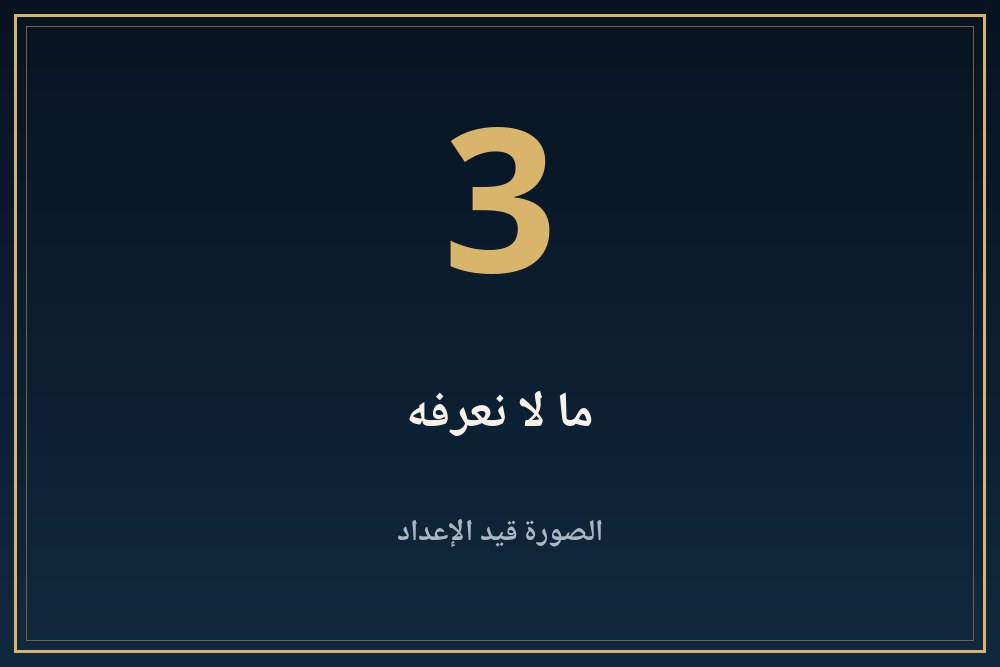
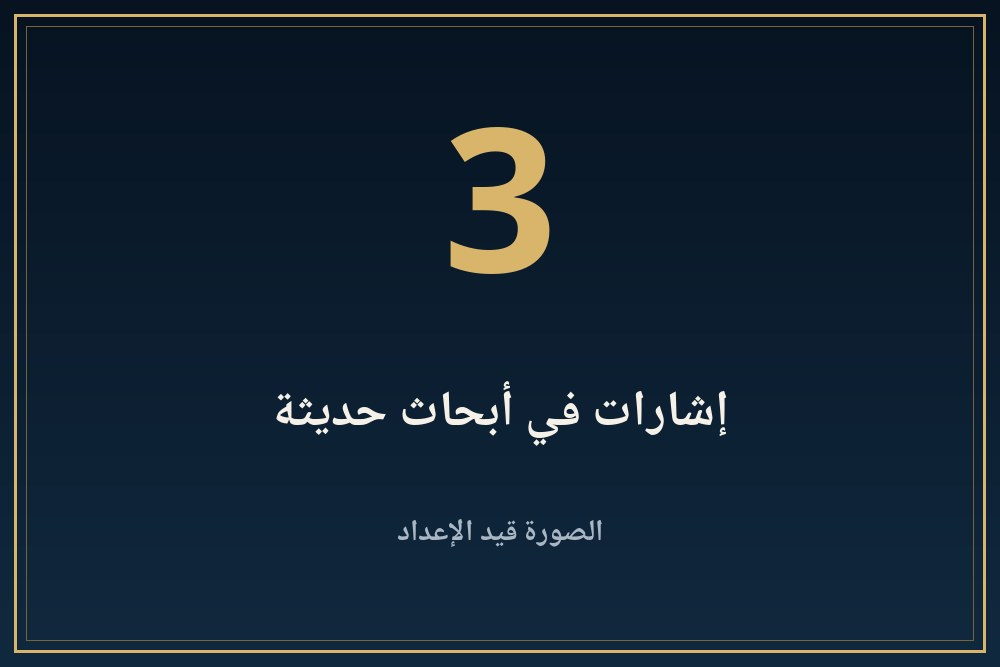
King card 111 folder 70: updated JSON

Changed region(s): [[0.279, 0.5697, 0.744, 0.6597]]

diff --git a/kings/070-syty-alawl/index.html b/kings/070-syty-alawl/index.html
@@ -324,7 +324,7 @@ html[dir=ltr] #panav.open,#pash[dir=ltr] #panav.open{border-right:0!important;bo
 <div class="row"><span class="bdg v">موثّق</span><span>مذكور في مصدر مرقّم يمكن فتحه من قسم المراجع.</span></div>
 <div class="row"><span class="bdg d">محل خلاف</span><span>الصفحة نفسها تذكر أن الباحثين أو المصادر مختلفون فيه.</span></div>
 <div class="row"><span class="bdg u">لم يُتحقق منه</span><span>الصفحة تذكر أنه من مصدر واحد ولم يُتحقق منه في مصدر ثانٍ.</span></div></div>
-<div class="band" aria-hidden="true"></div><details class="acc k1" id="s1"><summary><img class="bnr" src="banners/b01.jpg?v=1" alt="" width="1000" height="667"><span class="n">1</span><span class="t">من هو؟</span><span class="ch"></span></summary><div class="body"><button class="lbtn" type="button" disabled aria-disabled="true" style="opacity:.55;cursor:default"><svg viewBox="0 0 24 24" fill="currentColor" aria-hidden="true"><path d="M7 4.5v15a1 1 0 001.5.86l12-7.5a1 1 0 000-1.72l-12-7.5A1 1 0 007 4.5z"/></svg><span>التعليق الصوتي قريبًا</span></button><p><span class="bdg v">موثّق</span> يقول صالح (ص343) إن رعمسيس الأول استعان بولده «سيتي» وعهد إليه بالوزارة والقيادة ورئاسة الشرطة والرئاسة التقليدية للكهنة.<sup><a href="#r1">[1]</a></sup></p></div></details><details class="acc k2" id="s2"><summary><img class="bnr" src="banners/b02.jpg?v=1" alt="" loading="lazy" width="1000" height="667"><span class="n">2</span><span class="t">المؤسس الحقيقي؟</span><span class="ch"></span></summary><div class="body"><button class="lbtn" type="button" disabled aria-disabled="true" style="opacity:.55;cursor:default"><svg viewBox="0 0 24 24" fill="currentColor" aria-hidden="true"><path d="M7 4.5v15a1 1 0 001.5.86l12-7.5a1 1 0 000-1.72l-12-7.5A1 1 0 007 4.5z"/></svg><span>التعليق الصوتي قريبًا</span></button><p><span class="bdg d">محل خلاف</span> يقول صالح (ص343) إن الابن «يعتبر المؤسس الحقيقي لملك أسرته». هذا حكم صالح، ولم نقرأ ما يقابله أو يخالفه في مقتطفاتنا.<sup><a href="#r1">[1]</a></sup></p></div></details><details class="acc k3" id="s3"><summary><img class="bnr" src="banners/b03.jpg?v=1" alt="" loading="lazy" width="1000" height="667"><span class="n">3</span><span class="t">ما لا نعرفه</span><span class="ch"></span></summary><div class="body"><button class="lbtn" type="button" disabled aria-disabled="true" style="opacity:.55;cursor:default"><svg viewBox="0 0 24 24" fill="currentColor" aria-hidden="true"><path d="M7 4.5v15a1 1 0 001.5.86l12-7.5a1 1 0 000-1.72l-12-7.5A1 1 0 007 4.5z"/></svg><span>التعليق الصوتي قريبًا</span></button><p><span class="bdg u">لم يُتحقق منه</span> لا نقرأ في مقتطفاتنا حملاته ولا مبانيه ولا مدة حكمه ولا قبره. فصل سليم عنه (ج6 ص31) لم يصلنا بعد.</p></div></details><details class="acc k4" id="refs"><summary><img class="bnr" src="banners/b04.jpg?v=1" alt="" loading="lazy" width="1000" height="667"><span class="n">4</span><span class="t">المراجع</span><span class="ch"></span></summary><div class="body"><button class="lbtn" type="button" disabled aria-disabled="true" style="opacity:.55;cursor:default"><svg viewBox="0 0 24 24" fill="currentColor" aria-hidden="true"><path d="M7 4.5v15a1 1 0 001.5.86l12-7.5a1 1 0 000-1.72l-12-7.5A1 1 0 007 4.5z"/></svg><span>التعليق الصوتي قريبًا</span></button><p><b>مصادر فتحتُ صفحاتها وقرأتها:</b></p><ol><li id="r1" dir="auto">عبد العزيز صالح، الشرق الأدنى القديم ج1 (مصر والعراق)، أرقام صفحات PDF: <a dir="ltr" style="display:inline-block;overflow-wrap:anywhere" href="https://archive.org/details/20210510_20210510_0037" rel="noopener" target="_blank">archive.org/details/20210510_20210510_0037</a></li></ol><div class="flag"><b>تنبيه:</b> عدد المصادر المصرية المفتوحة لهذه الصفحة واحد فقط. لا نضيف تفاصيل لم تثبت في مصدر فتحناه وقرأنا نصه، وحيث يختلف المصدران ننسب كل رأي لصاحبه.</div></div></details></article><aside class="abt" aria-label="عن هذه الصفحة"><h3>عن هذه الصفحة</h3><ul><li><b>المحتوى</b><span>جزء من موسوعة بر عنخ التعليمية. التواريخ والتفسيرات وفق المراجع المتاحة، وقد تختلف التفاصيل بين الدراسات.</span></li><li><b>الصور</b><span>صور هذه الصفحة أماكن حجز مؤقتة إلى أن تُضاف الصور الفنية.</span></li><li><b>الصوت</b><span>التعليق الصوتي قيد الإعداد.</span></li></ul></aside><a class="back" href="/kings/">← تصفح المزيد</a><a class="back" href="/">العودة إلى الرئيسية</a><dialog id="lb"><img alt=""><p></p><button type="button">إغلاق</button></dialog>
+<div class="band" aria-hidden="true"></div><details class="acc k1" id="s1"><summary><img class="bnr" src="banners/b01.jpg?v=1" alt="" width="1000" height="667"><span class="n">1</span><span class="t">من هو؟</span><span class="ch"></span></summary><div class="body"><button class="lbtn" type="button" disabled aria-disabled="true" style="opacity:.55;cursor:default"><svg viewBox="0 0 24 24" fill="currentColor" aria-hidden="true"><path d="M7 4.5v15a1 1 0 001.5.86l12-7.5a1 1 0 000-1.72l-12-7.5A1 1 0 007 4.5z"/></svg><span>التعليق الصوتي قريبًا</span></button><p><span class="bdg v">موثّق</span> يقول صالح (ص343) إن رعمسيس الأول استعان بولده «سيتي» وعهد إليه بالوزارة والقيادة ورئاسة الشرطة والرئاسة التقليدية للكهنة.<sup><a href="#r1">[1]</a></sup></p></div></details><details class="acc k2" id="s2"><summary><img class="bnr" src="banners/b02.jpg?v=1" alt="" loading="lazy" width="1000" height="667"><span class="n">2</span><span class="t">المؤسس الحقيقي؟</span><span class="ch"></span></summary><div class="body"><button class="lbtn" type="button" disabled aria-disabled="true" style="opacity:.55;cursor:default"><svg viewBox="0 0 24 24" fill="currentColor" aria-hidden="true"><path d="M7 4.5v15a1 1 0 001.5.86l12-7.5a1 1 0 000-1.72l-12-7.5A1 1 0 007 4.5z"/></svg><span>التعليق الصوتي قريبًا</span></button><p><span class="bdg d">محل خلاف</span> يقول صالح (ص343) إن الابن «يعتبر المؤسس الحقيقي لملك أسرته». هذا حكم صالح، ولم نقرأ ما يقابله أو يخالفه في مقتطفاتنا.<sup><a href="#r1">[1]</a></sup></p></div></details><details class="acc k3" id="s3"><summary><img class="bnr" src="banners/b03.jpg?v=1" alt="" loading="lazy" width="1000" height="667"><span class="n">3</span><span class="t">إشارات في أبحاث حديثة</span><span class="ch"></span></summary><div class="body"><button class="lbtn" type="button" disabled aria-disabled="true" style="opacity:.55;cursor:default"><svg viewBox="0 0 24 24" fill="currentColor" aria-hidden="true"><path d="M7 4.5v15a1 1 0 001.5.86l12-7.5a1 1 0 000-1.72l-12-7.5A1 1 0 007 4.5z"/></svg><span>التعليق الصوتي قريبًا</span></button><p><span class="bdg v">موثّق</span> يذكر باحثون في كتب Archaeopress ما يلي عن سيتي الأول، لكل منهم قوله. يقول Gregory (ص99) إن قوائم الملوك، مثل القائمة المنقوشة لسيتي الأول في أبيدوس، تشير إلى أن للنظر إلى الزمن بوصفه خطيا ما يبرره. ويقول (ص114) إن باخت تطلب الكمال المثالي لسيتي الأول في نص الإهداء الكبير في سبيوس أرتميدوس. وتقول Roussel (CRE 2022، ص301) إن مقصورتين في دير المدينة، هما مقصورة حتحور لسيتي الأول ومعبد آمون لرمسيس الثاني، تحملان رسوما جدارية تُظهر رجالا ونساء. وتقول Soliman (ص358) إن سيتي الأول (نحو 1291-1279 ق.م) خاض معركة كبرى ضد القبائل الليبية، وإن من المغري ربط ذلك بإنشاء الحصن. وتقول Derbyshire (CRE 2024، ص64) إن معابد جبل السلسلة كُرّست لسيتي الأول ورمسيس الثاني ومرنبتاح، مع مقصورة أصغر لرمسيس الثالث.<sup><a href="#r2">[2]</a><a href="#r3">[3]</a></sup></p></div></details><details class="acc k4" id="s4"><summary><img class="bnr" src="banners/b04.jpg?v=1" alt="" loading="lazy" width="1000" height="667"><span class="n">4</span><span class="t">ما لا نعرفه</span><span class="ch"></span></summary><div class="body"><button class="lbtn" type="button" disabled aria-disabled="true" style="opacity:.55;cursor:default"><svg viewBox="0 0 24 24" fill="currentColor" aria-hidden="true"><path d="M7 4.5v15a1 1 0 001.5.86l12-7.5a1 1 0 000-1.72l-12-7.5A1 1 0 007 4.5z"/></svg><span>التعليق الصوتي قريبًا</span></button><p><span class="bdg u">لم يُتحقق منه</span> لا نقرأ في مقتطفاتنا حملاته ولا مبانيه ولا مدة حكمه ولا قبره. فصل سليم عنه (ج6 ص31) لم يصلنا بعد.</p></div></details><details class="acc k4" id="refs"><summary><img class="bnr" src="banners/b05.jpg?v=1" alt="" loading="lazy" width="1000" height="667"><span class="n">5</span><span class="t">المراجع</span><span class="ch"></span></summary><div class="body"><button class="lbtn" type="button" disabled aria-disabled="true" style="opacity:.55;cursor:default"><svg viewBox="0 0 24 24" fill="currentColor" aria-hidden="true"><path d="M7 4.5v15a1 1 0 001.5.86l12-7.5a1 1 0 000-1.72l-12-7.5A1 1 0 007 4.5z"/></svg><span>التعليق الصوتي قريبًا</span></button><p><b>مصادر فتحتُ صفحاتها وقرأتها:</b></p><ol><li id="r1" dir="auto">عبد العزيز صالح، الشرق الأدنى القديم ج1 (مصر والعراق)، أرقام صفحات PDF: <a dir="ltr" style="display:inline-block;overflow-wrap:anywhere" href="https://archive.org/details/20210510_20210510_0037" rel="noopener" target="_blank">archive.org/details/20210510_20210510_0037</a></li><li id="r2" dir="auto">S.R.W. Gregory, Tutankhamun Knew the Names of the Two Great Gods (2022)، ترخيص CC BY-NC-ND 4.0، ص105-118 (ترقيم الكتاب المطبوع)</li><li id="r3" dir="auto">أبحاث في Current Research in Egyptology 2022 و2024 (Archaeopress): Sally Bahgat ص22؛ Louisa Ben Hamida ص41؛ Valentin Boyer ص53؛ Joanne Derbyshire (2024) ص64؛ Aliénor Roussel ص301؛ Marwa Soliman ص358 (ترقيم الكتاب المطبوع)</li></ol><div class="flag"><b>تنبيه:</b> عدد المصادر المصرية المفتوحة لهذه الصفحة واحد فقط. لا نضيف تفاصيل لم تثبت في مصدر فتحناه وقرأنا نصه، وحيث يختلف المصدران ننسب كل رأي لصاحبه.</div></div></details></article><aside class="abt" aria-label="عن هذه الصفحة"><h3>عن هذه الصفحة</h3><ul><li><b>المحتوى</b><span>جزء من موسوعة بر عنخ التعليمية. التواريخ والتفسيرات وفق المراجع المتاحة، وقد تختلف التفاصيل بين الدراسات.</span></li><li><b>الصور</b><span>صور هذه الصفحة أماكن حجز مؤقتة إلى أن تُضاف الصور الفنية.</span></li><li><b>الصوت</b><span>التعليق الصوتي قيد الإعداد.</span></li></ul></aside><a class="back" href="/kings/">← تصفح المزيد</a><a class="back" href="/">العودة إلى الرئيسية</a><dialog id="lb"><img alt=""><p></p><button type="button">إغلاق</button></dialog>
 <script>(function(){var A=function(){return document.querySelectorAll("details.acc")};
 document.getElementById("all").onclick=function(){A().forEach(function(d){d.open=true})};
 document.getElementById("none").onclick=function(){A().forEach(function(d){d.open=false})};
@@ -332,7 +332,7 @@ function go(h){var e=h&&document.getElementById(h.slice(1));if(!e)return;var d=e
 document.addEventListener("click",function(e){var a=e.target.closest&&e.target.closest('a[href^="#"]');if(a){go(a.getAttribute("href"))}});
 if(location.hash)go(location.hash);
 var d=document.getElementById("lb");if(!d||!d.showModal)return;var im=d.querySelector("img"),p=d.querySelector("p");document.addEventListener("click",function(e){var t=e.target;if(t.tagName=="IMG"&&t.closest(".fig")){im.src=t.src;im.alt=t.alt;p.textContent=t.closest("figure").querySelector("figcaption").innerText;d.showModal()}else if(t==d||t.tagName=="BUTTON"&&d.contains(t)){d.close()}})})();</script><div class="pbar" id="pbar"></div><div class="pl" id="pl" role="region" aria-label="مشغّل الاستماع"><div class="in"><button class="pp" id="pp" type="button" aria-label="تشغيل"><svg viewBox="0 0 24 24" fill="currentColor" aria-hidden="true"><path d="M7 4.5v15a1 1 0 001.5.86l12-7.5a1 1 0 000-1.72l-12-7.5A1 1 0 007 4.5z"/></svg></button><div class="mid"><div class="ttl"><span id="tt">استماع</span> <i>صوت اصطناعي</i></div><input id="sk" type="range" min="0" max="1000" value="0" aria-label="موضع التشغيل"><div class="tm"><span id="cur">0:00</span><span id="dur">0:00</span></div></div><div class="ex"><button id="bk" type="button" aria-label="رجوع 10 ثوانٍ">−10</button><button id="fw" type="button" aria-label="تقدم 10 ثوانٍ">+10</button><button id="sp" class="sp" type="button" aria-label="سرعة التشغيل">1×</button><button id="cl" type="button" aria-label="إغلاق المشغّل">✕</button></div><p class="err" id="er" role="alert" hidden>تعذر تحميل الملف الصوتي. حاول لاحقًا.</p></div><div aria-live="polite" id="st" style="position:absolute;left:-9999px"></div><audio id="au" preload="none"></audio></div></main><script>(function(){
-var S={"s1": ["من هو؟", 1], "s2": ["المؤسس الحقيقي؟", 1], "s3": ["ما لا نعرفه", 1], "refs": ["المراجع", 1]},$=function(i){return document.getElementById(i)},au=$("au"),pl=$("pl"),pp=$("pp"),sk=$("sk"),P="<svg viewBox=\"0 0 24 24\" fill=\"currentColor\" aria-hidden=\"true\"><path d=\"M7 4.5v15a1 1 0 001.5.86l12-7.5a1 1 0 000-1.72l-12-7.5A1 1 0 007 4.5z\"/></svg>",Q="<svg viewBox=\"0 0 24 24\" fill=\"currentColor\" aria-hidden=\"true\"><rect x=\"5.5\" y=\"4\" width=\"4.5\" height=\"16\" rx=\"1.2\"/><rect x=\"14\" y=\"4\" width=\"4.5\" height=\"16\" rx=\"1.2\"/></svg>",cur=null,part=1,seeking=false;
+var S={"s1": ["من هو؟", 1], "s2": ["المؤسس الحقيقي؟", 1], "s3": ["إشارات في أبحاث حديثة", 1], "s4": ["ما لا نعرفه", 1], "refs": ["المراجع", 1]},$=function(i){return document.getElementById(i)},au=$("au"),pl=$("pl"),pp=$("pp"),sk=$("sk"),P="<svg viewBox=\"0 0 24 24\" fill=\"currentColor\" aria-hidden=\"true\"><path d=\"M7 4.5v15a1 1 0 001.5.86l12-7.5a1 1 0 000-1.72l-12-7.5A1 1 0 007 4.5z\"/></svg>",Q="<svg viewBox=\"0 0 24 24\" fill=\"currentColor\" aria-hidden=\"true\"><rect x=\"5.5\" y=\"4\" width=\"4.5\" height=\"16\" rx=\"1.2\"/><rect x=\"14\" y=\"4\" width=\"4.5\" height=\"16\" rx=\"1.2\"/></svg>",cur=null,part=1,seeking=false;
 function fmt(t){if(!isFinite(t))return"0:00";var m=Math.floor(t/60),s=Math.floor(t%60);return m+":"+(s<10?"0":"")+s}
 function btns(){document.querySelectorAll(".lbtn").forEach(function(b){var on=b.dataset.s===cur&&!au.paused;b.classList.toggle("on",on);b.querySelector("span").textContent=on?"إيقاف مؤقت":(b.dataset.s===cur&&au.currentTime>1?"أكمل الاستماع":"استمع لهذا القسم");b.querySelector("svg").outerHTML=on?Q:P})}
 function ui(){var pa=au.paused;pp.innerHTML=pa?P:Q;pp.setAttribute("aria-label",pa?"تشغيل":"إيقاف مؤقت");btns()}
